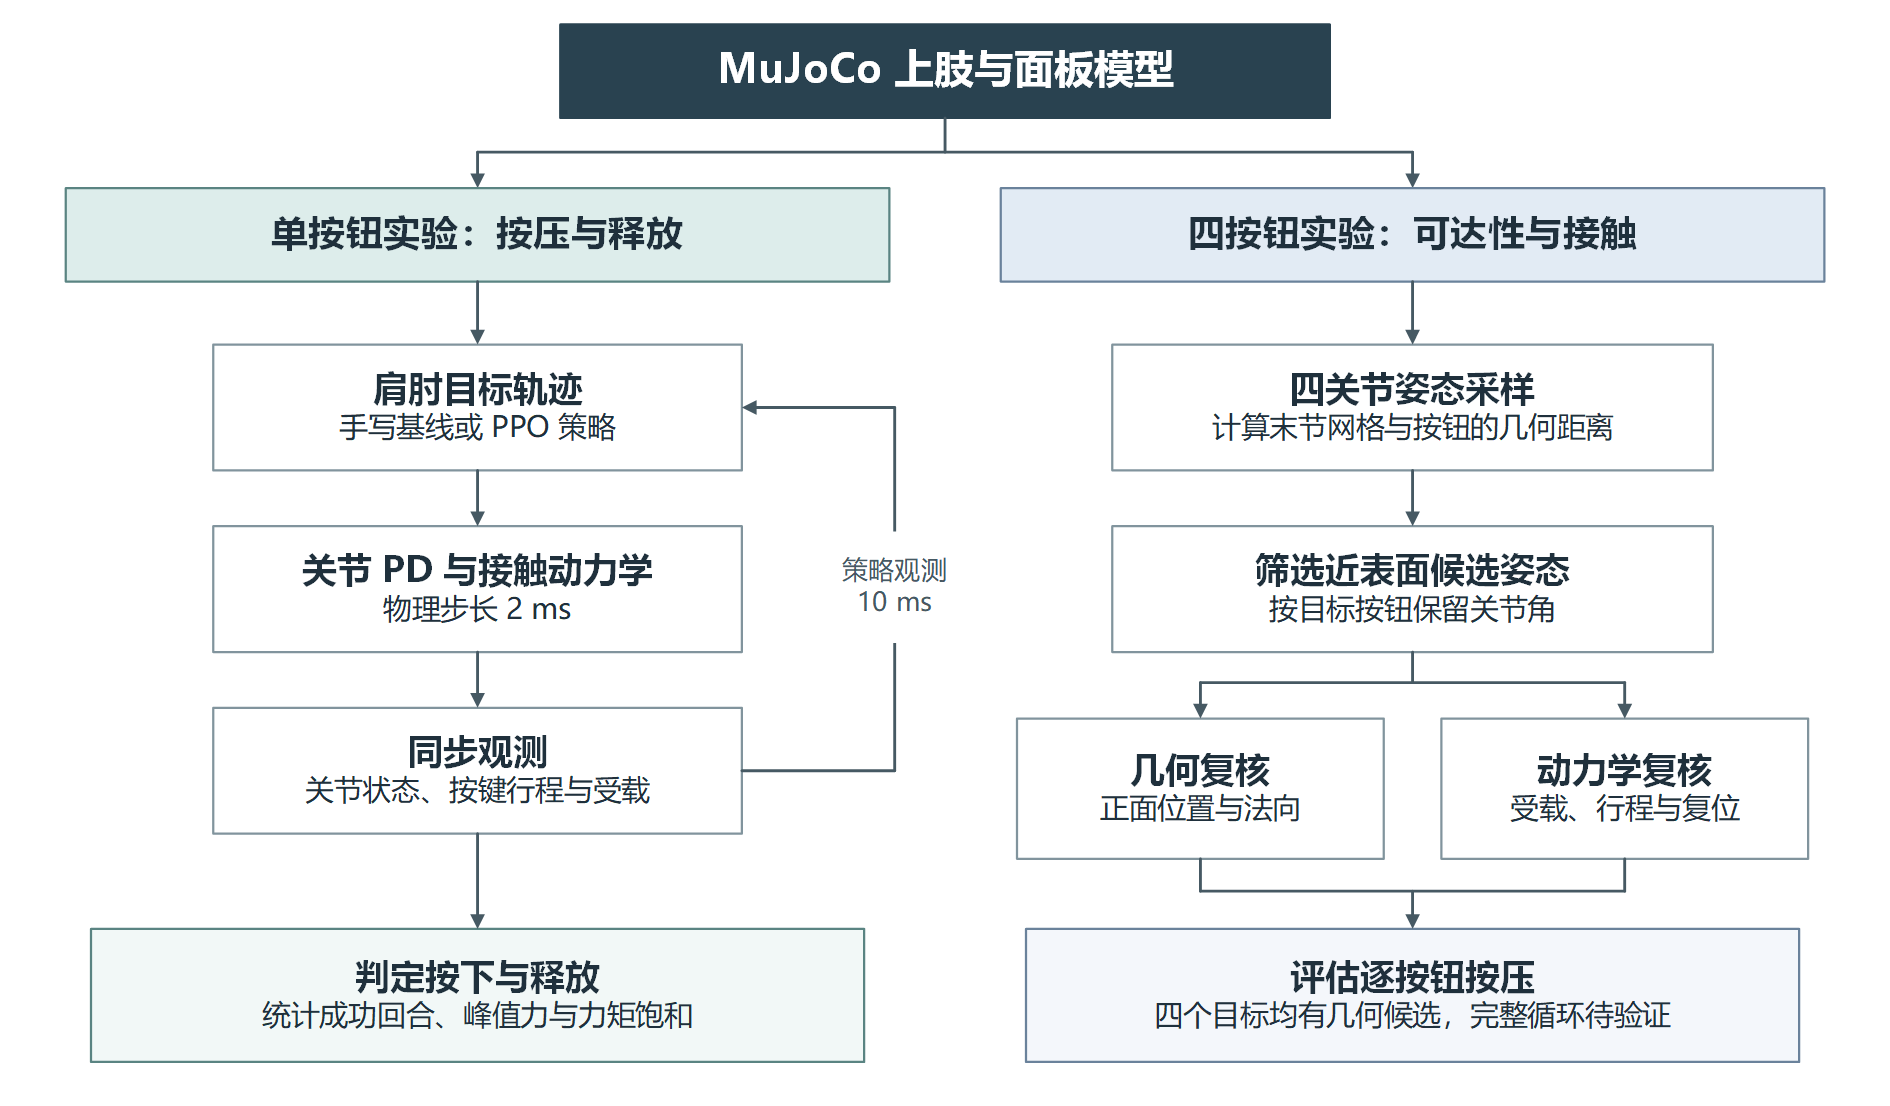
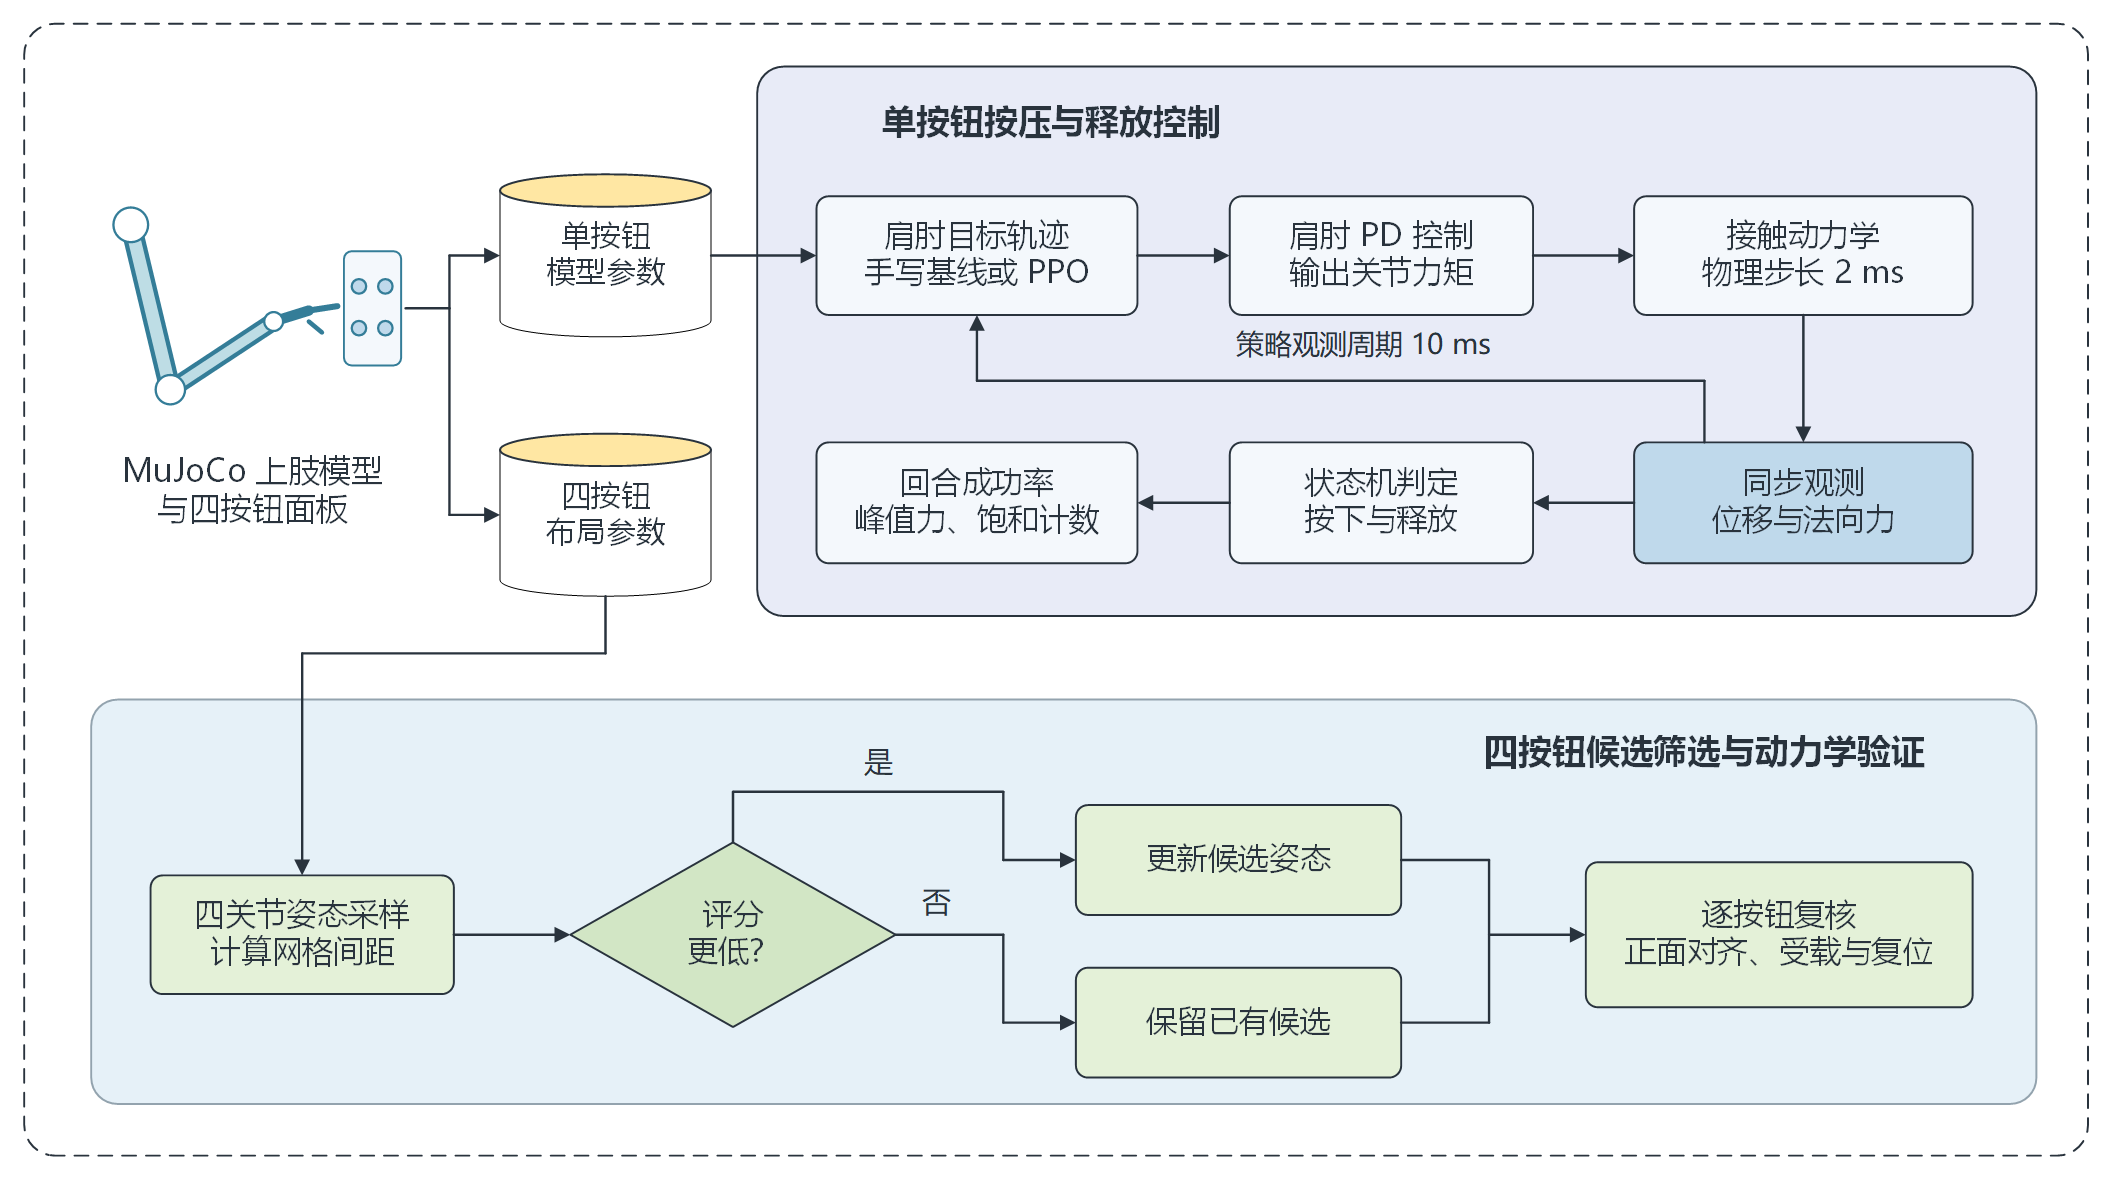
Match method figure to the research proposal reference layout

diff --git a/README.md b/README.md
@@ -6,9 +6,9 @@
 
 ## 方法
 
-![面板按压实验方法框图：左侧为单按钮肩肘控制与策略观测反馈，右侧为四按钮候选姿态的几何与动力学复核](docs/figures/experimental-method.png)
+![上肢面板按压研究技术路线：从同一上肢模型出发，上方为单按钮闭环控制，下方为四按钮候选筛选与动力学验证](docs/figures/experimental-method.png)
 
-**图 1　面板按压实验的技术路线。** 两组实验共用上肢与面板几何。左侧检验肩肘控制能否依次触发按下与释放。右侧从几何和动力学两方面检验各按钮位置的候选姿态。[可编辑的 Visio 源图](docs/figures/experimental-method.vsdx)
+**图 1　上肢面板按压研究技术路线。** 上方用滑块行程和指尖受载判定按下与释放。下方按食指网格到按钮的距离给姿态评分，对穿透姿态加罚。每个按钮保留评分最低的候选，再检验其正面对齐、受载与复位情况。[可编辑的 Visio 源图](docs/figures/experimental-method.vsdx)
 
 ![肩肘双轴运动的全景和局部同步回放](artifacts/trajectory_check_2026-10-21/shoulder_elbow_dual_motion.gif)
 
